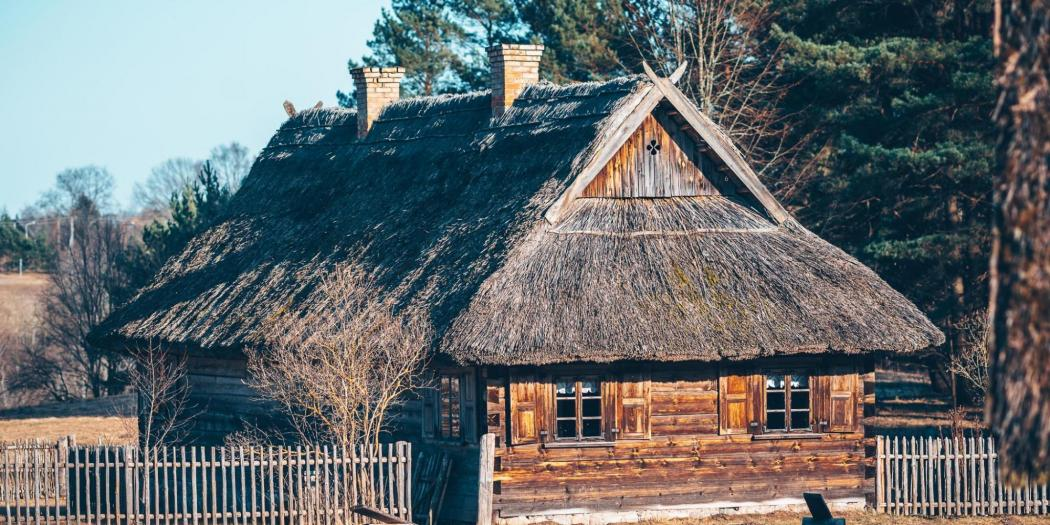
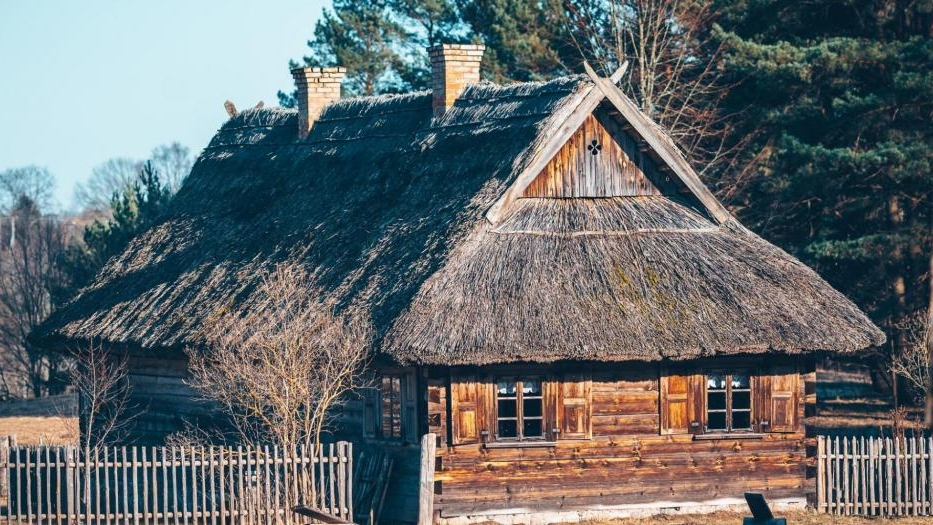
new pictures

diff --git a/sightseeing.html b/sightseeing.html
@@ -43,7 +43,7 @@
                 <button class="expandable-item-header">
                     <div class="expandable-header-vertical">
                         <div id="flex-1-item">
-                            <img class="sight-image" src="img/sights/devils_museum.png">
+                            <img class="sight-image" src="img/sights/devils_museum.jpg">
                         </div>
                         <div id="flex-1-item">
                             <h1> Devil's Museum </h1>

diff --git a/css/style.css b/css/style.css
@@ -457,8 +457,8 @@ table {
     float: left;
     overflow: visible;
     padding: auto;
-    flex: 1;
-    flex-basis: 50%;
+    flex:1;
+    flex-basis: 45%;
 }
 
 #sightseeing-small-block p {
@@ -471,13 +471,13 @@ table {
 
 .sight-image {
     width: 100%;
-    height: 100%;
-    object-fit: contain;
 }
 
 #sight-wrapper {
     display: flex;
     flex-wrap: wrap;
+    gap: 2px;
+    align-items: stretch;
 }
 
 /**** Sports page ****/
